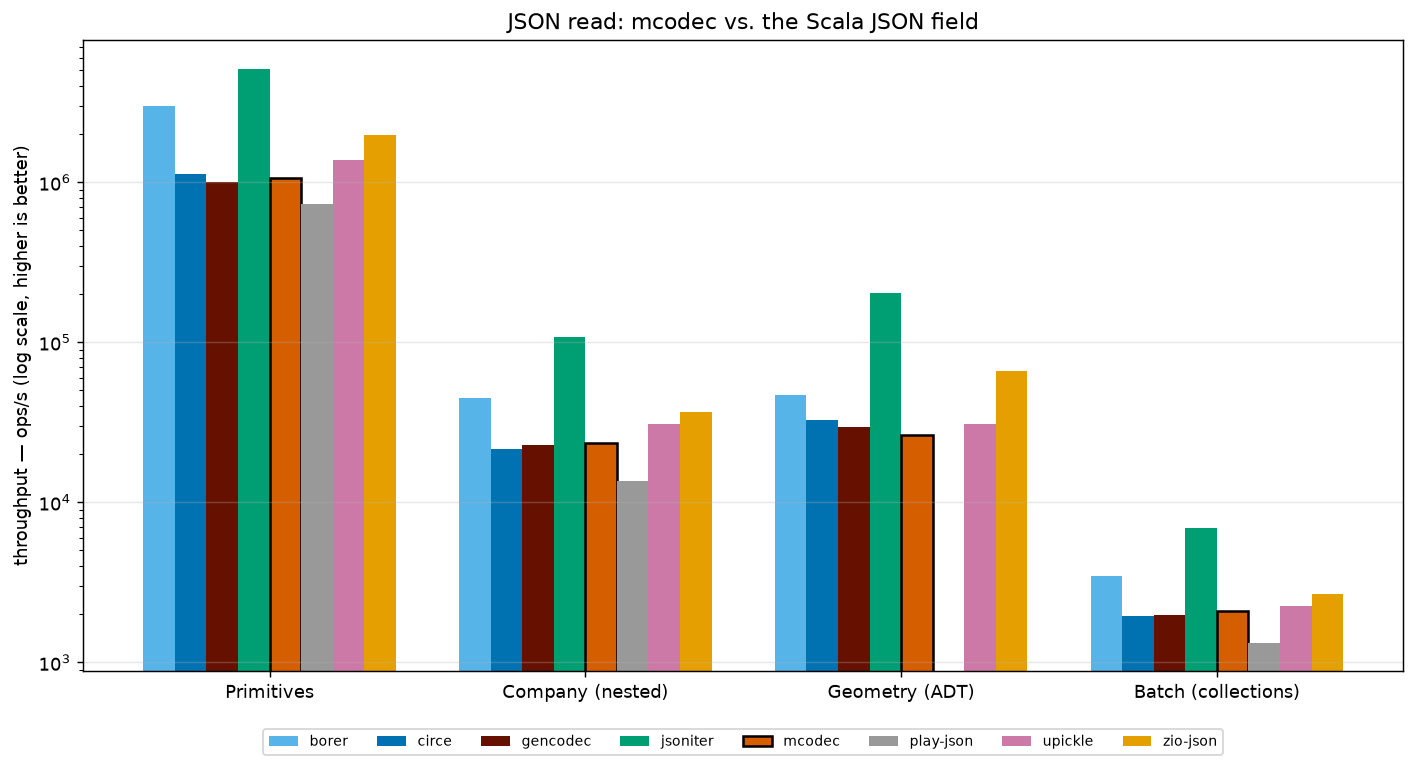
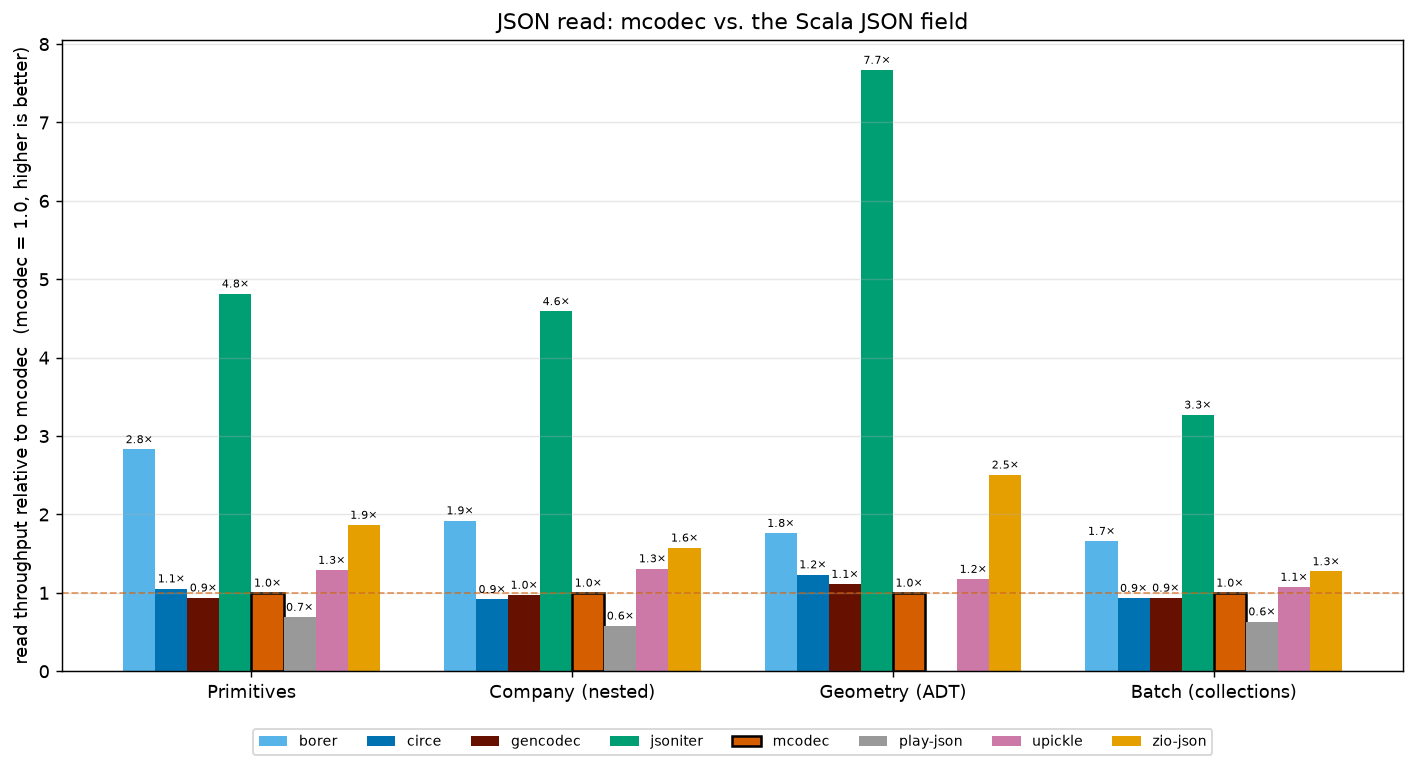
bench: normalise the serde charts to mcodec instead of a log axis
Bars on a log axis don't encode value by height (a bar twice as tall is not
2x), which the throughput charts leaned on because absolute ops/s span ~3
orders of magnitude across models. Each bar is now the library's throughput
divided by mcodec's on the same model: mcodec sits at 1.0, everyone else is a
plain ratio, linear axis, with the exact multiplier labelled on each bar.

Absolute ops/s stay in the tables.

Claude-Session: https://claude.ai/code/session_012JBPZ36jR2Pe8eNR3c9A38

diff --git a/benchmark/scripts/plot.py b/benchmark/scripts/plot.py
@@ -43,19 +43,26 @@ def serde_chart(rows: list[dict], op: str, out: Path) -> None:
     libs = sorted({r["library"] for r in data})
     score = {(r["library"], r["model"]): float(r["score_ops_s"]) for r in data}
 
+    # each bar is the library's throughput / mcodec's on the same model (mcodec = 1.0)
+    models = [m for m in models if score.get((HIGHLIGHT, m), 0) > 0]
+    ratio = {(lib, m): score.get((lib, m), 0) / score[(HIGHLIGHT, m)]
+             for lib in libs for m in models}
+
     fig, ax = plt.subplots(figsize=(11, 6))
     n = len(libs)
     width = 0.8 / n
     for i, lib in enumerate(libs):
         xs = [j + (i - n / 2) * width + width / 2 for j in range(len(models))]
-        ys = [score.get((lib, m), 0) for m in models]
-        ax.bar(xs, ys, width, label=lib, color=COLORS.get(lib, "#444"),
-               edgecolor="black" if lib == HIGHLIGHT else "none",
-               linewidth=1.4 if lib == HIGHLIGHT else 0)
-    ax.set_yscale("log")
+        ys = [ratio.get((lib, m), 0) for m in models]
+        bars = ax.bar(xs, ys, width, label=lib, color=COLORS.get(lib, "#444"),
+                      edgecolor="black" if lib == HIGHLIGHT else "none",
+                      linewidth=1.4 if lib == HIGHLIGHT else 0)
+        ax.bar_label(bars, labels=[f"{y:.1f}×" if y else "" for y in ys],
+                     padding=2, fontsize=6)
+    ax.axhline(1.0, color=COLORS[HIGHLIGHT], lw=1, ls="--", alpha=0.6)
     ax.set_xticks(range(len(models)))
     ax.set_xticklabels(models)
-    ax.set_ylabel("throughput — ops/s (log scale, higher is better)")
+    ax.set_ylabel(f"{op} throughput relative to mcodec  (mcodec = 1.0, higher is better)")
     ax.set_title(f"JSON {op}: mcodec vs. the Scala JSON field")
     ax.legend(ncol=n, fontsize=8, loc="upper center", bbox_to_anchor=(0.5, -0.08))
     ax.grid(axis="y", alpha=0.3)

diff --git a/docs/_docs/benchmarks.md b/docs/_docs/benchmarks.md
@@ -102,8 +102,10 @@ _Throughput, ops/s (higher is better) — `read`._
 | zio-json | 1,984,531 | 36,909 | 66,179 | 2,672 |
 <!-- BENCH:serde-read END -->
 
-![write throughput](images/benchmarks/serde-write.png)
-![read throughput](images/benchmarks/serde-read.png)
+_Charts show throughput **relative to mcodec** on each model (mcodec = 1.0, taller is faster); absolute ops/s are in the tables above._
+
+![write throughput relative to mcodec](images/benchmarks/serde-write.png)
+![read throughput relative to mcodec](images/benchmarks/serde-read.png)
 
 ## Compilation time
 
